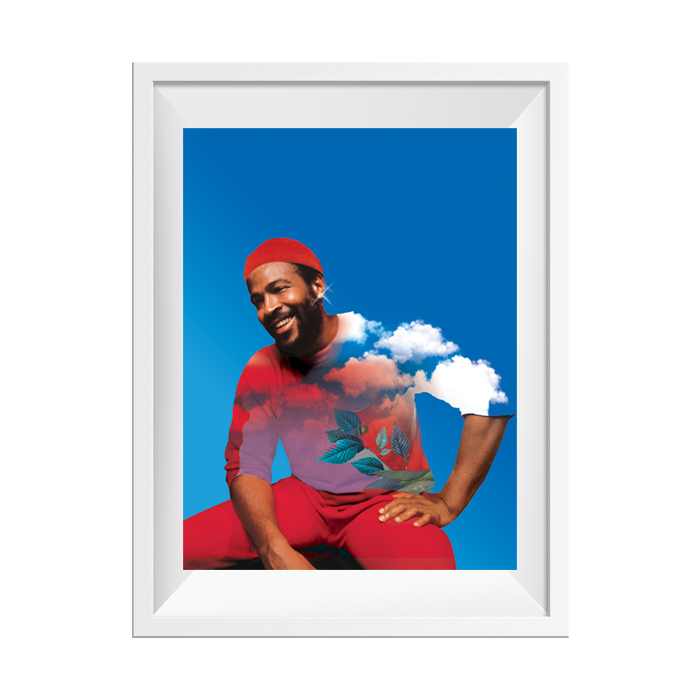
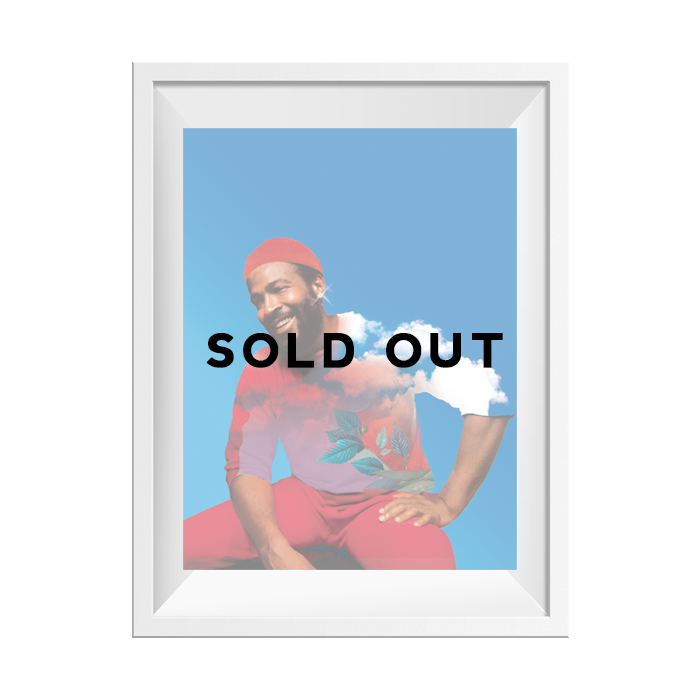
v12

Changed region(s): [[0.24, 0.18, 0.75, 0.84]]

diff --git a/src/components/Art.js b/src/components/Art.js
@@ -13,8 +13,14 @@ export default function Art(props) {
   useEffect(() => {}, [piece]);
 
   function addToCart(piece) {
-    props.update(piece);
-    closeDisplay();
+    console.log(piece);
+    if(piece.id === '23349') {
+      alert('SOLD OUT');
+    } else {
+      props.update(piece);
+      closeDisplay();
+    }
+
   }
 
   function closeDisplay() {
@@ -55,6 +61,7 @@ export default function Art(props) {
                 <div>
                   <h4 className="masterSize">{piece.title}</h4>
                 </div>
+                
                 <button className="cartButton" onClick={() => addToCart(piece)}>
                   ADD TO CART
                 </button>
